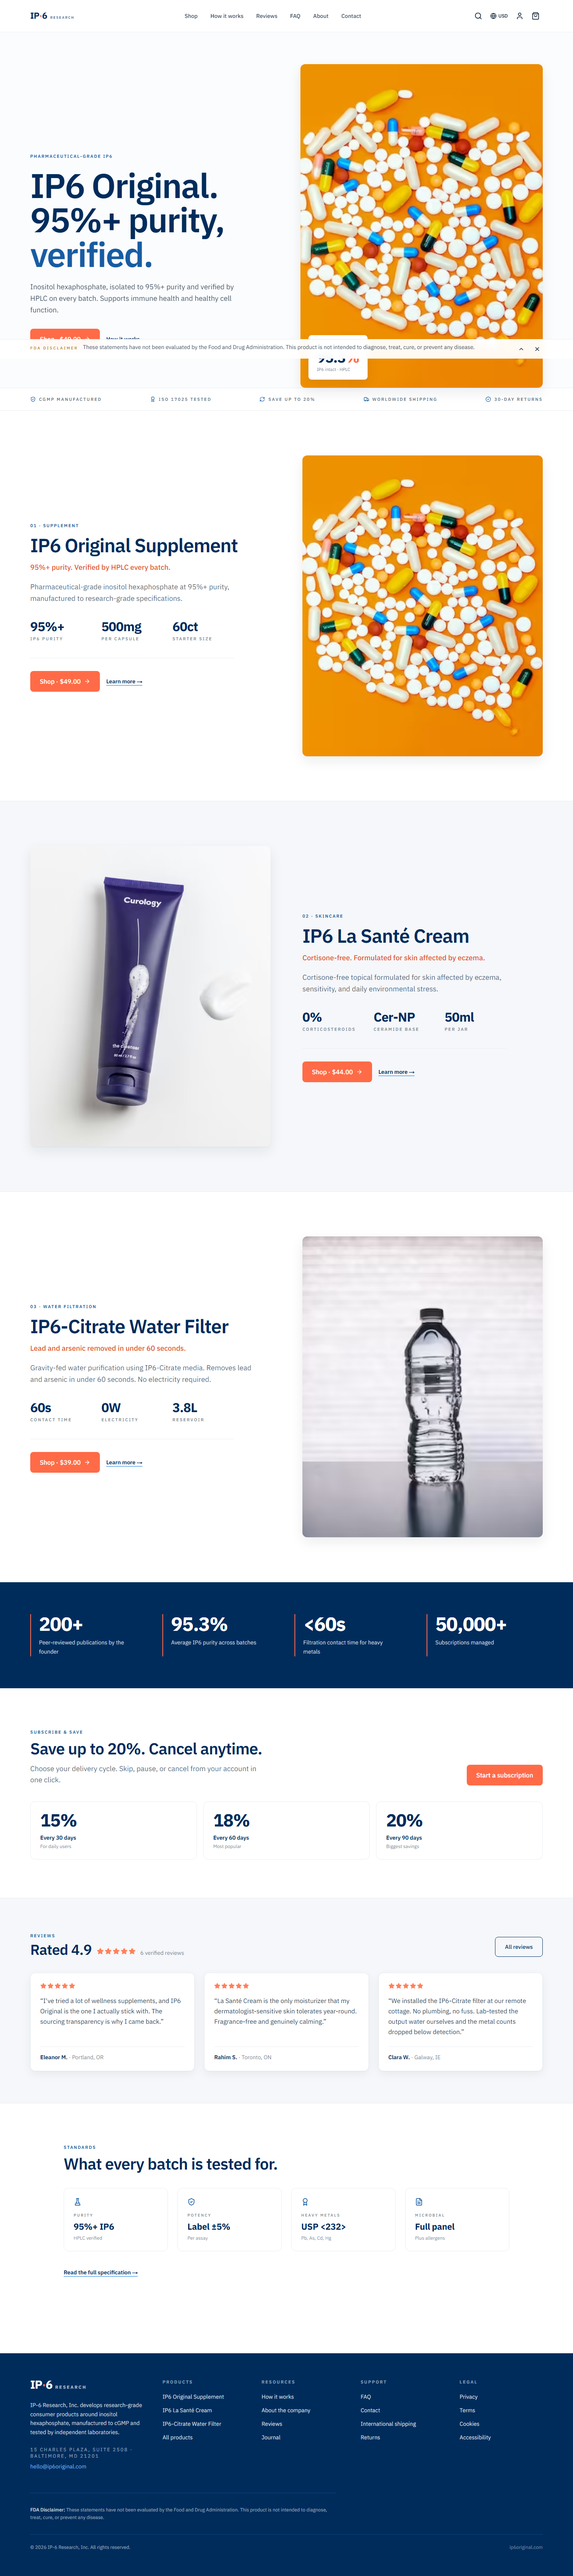
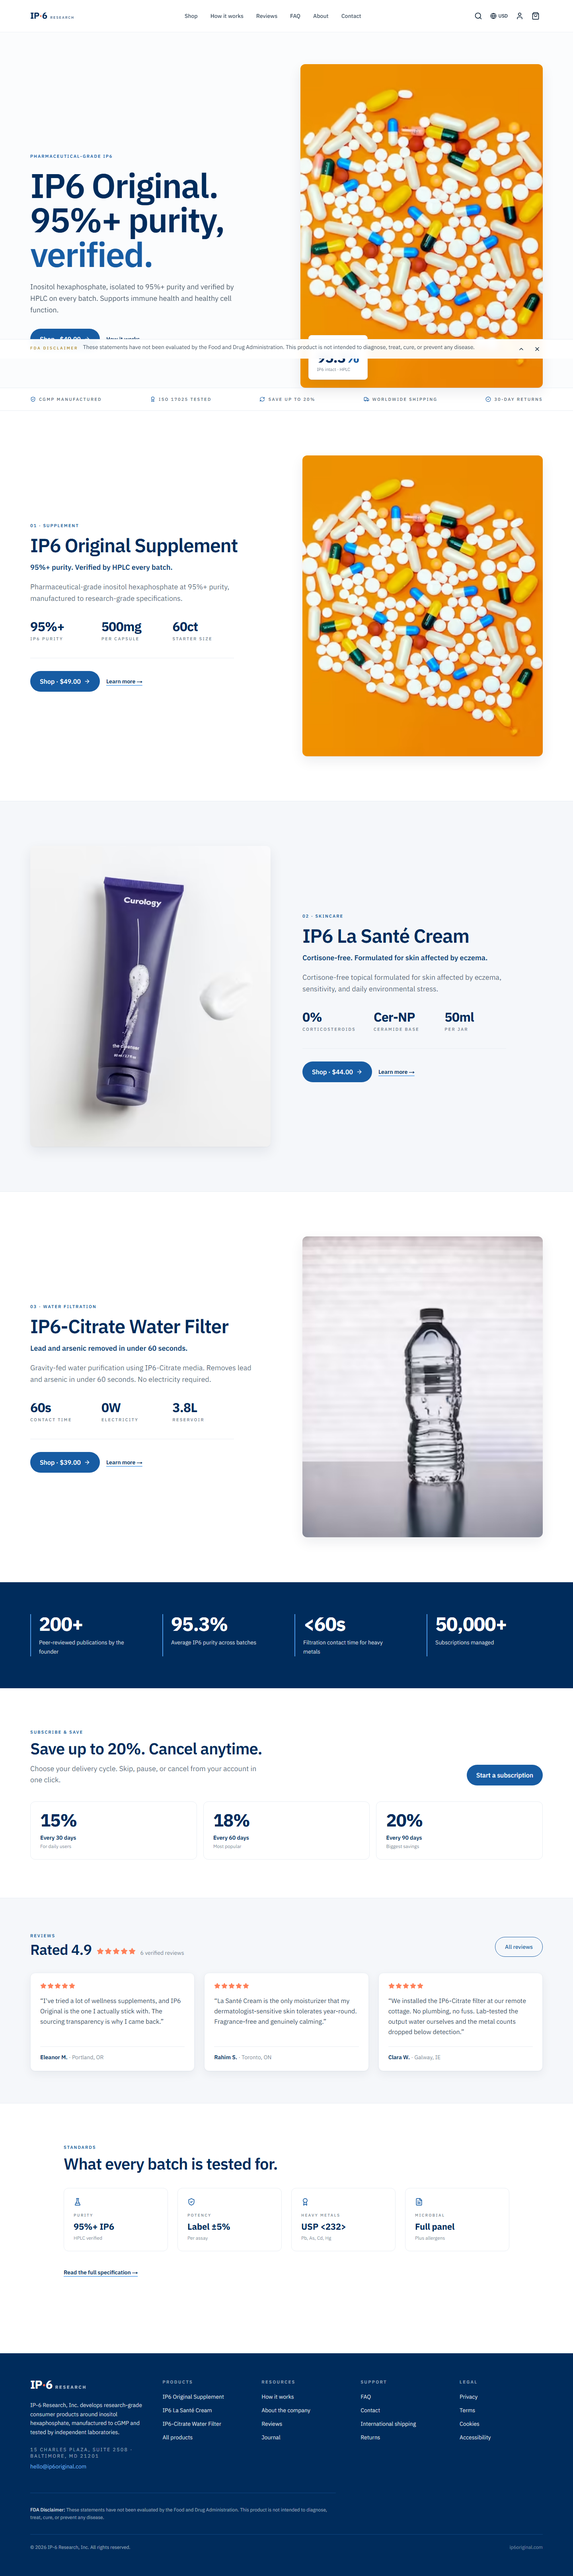
Match Ozempic CTA color: rounded sky-blue, not coral rectangle
Reference (ozempic.com home) uses blue CTAs and links throughout, no
warm accent. Switching primary, secondary, and gold buttons to sky
blue with full pill rounding. Coral retained only as a token, not used
on the home page.

diff --git a/app/page.tsx b/app/page.tsx
@@ -71,7 +71,7 @@ export default function HomePage() {
               <div className="absolute bottom-5 left-5 bg-surface rounded-md px-5 py-4 shadow-card border border-cloud-300">
                 <p className="text-[10px] uppercase tracking-[0.22em] text-ink/55 font-semibold">Verified</p>
                 <p className="font-sans font-bold text-navy-800 leading-none mt-1.5" style={{ fontSize: "2.25rem", letterSpacing: "-0.025em" }}>
-                  95.3<span className="text-coral-500">%</span>
+                  95.3<span className="text-sky-600">%</span>
                 </p>
                 <p className="text-[11px] text-ink/60 mt-1">IP6 intact · HPLC</p>
               </div>
@@ -140,7 +140,7 @@ export default function HomePage() {
             { n: "<60s", l: "Filtration contact time for heavy metals" },
             { n: "50,000+", l: "Subscriptions managed" },
           ].map((i) => (
-            <div key={i.l} className="border-l-2 border-coral-500 pl-5">
+            <div key={i.l} className="border-l-2 border-sky-400 pl-5">
               <p className="font-sans font-bold text-surface leading-none" style={{ fontSize: "clamp(2.25rem, 4vw, 3rem)", letterSpacing: "-0.025em" }}>
                 {i.n}
               </p>
@@ -297,7 +297,7 @@ function ProductBand({
           <h2 className="font-sans font-semibold text-navy-800 text-balance" style={{ fontSize: "clamp(2rem, 4vw, 3rem)", letterSpacing: "-0.025em", lineHeight: 1.05 }}>
             {product.name}
           </h2>
-          <p className="mt-4 font-sans font-medium text-coral-600 text-lg">
+          <p className="mt-4 font-sans font-semibold text-sky-700 text-lg">
             {outcomeLine}
           </p>
           <p className="mt-5 text-ink/70 leading-relaxed text-lg max-w-xl">

diff --git a/app/globals.css b/app/globals.css
@@ -59,15 +59,15 @@
   }
 
   .btn-primary {
-    @apply btn bg-coral-500 text-surface hover:bg-coral-600 px-6 py-3.5;
+    @apply btn bg-sky-600 text-surface hover:bg-sky-700 px-6 py-3.5 rounded-full;
   }
 
   .btn-secondary {
-    @apply btn border border-navy-800 text-navy-800 hover:bg-navy-50 px-6 py-3.5;
+    @apply btn border border-sky-600 text-sky-600 hover:bg-sky-50 px-6 py-3.5 rounded-full;
   }
 
   .btn-gold {
-    @apply btn bg-coral-500 text-surface hover:bg-coral-600 px-6 py-3.5;
+    @apply btn bg-sky-600 text-surface hover:bg-sky-700 px-6 py-3.5 rounded-full;
   }
 
   .btn-ghost {
